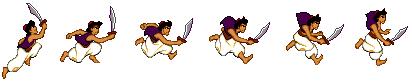
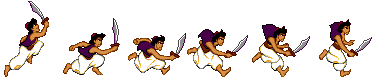
Fixed states and Aladdin's animation spritesheets

diff --git a/Game/Game/PlayerStandingState.cpp b/Game/Game/PlayerStandingState.cpp
@@ -2,6 +2,7 @@
 #include "PlayerStandingState.h"
 
 #define IDLE_TIME 1500
+constexpr auto idle_sprite_offset = 3;
 
 PlayerStandingState::PlayerStandingState(Player* player, Animation* animation)
 {
@@ -12,6 +13,8 @@ PlayerStandingState::PlayerStandingState(Player* player, Animation* animation)
 	m_animation->setPositionY(m_player->getPosition().y);
 
 	m_animationStandLookAround = DBG_NEW Animation(L"Resources/animations/aladdin/stand-look-around.png", 7, 1, 7, true, 150.f);
+	m_animationStandLookAround->setPositionX(m_player->getPosition().x);
+	m_animationStandLookAround->setPositionY(m_player->getPosition().y - idle_sprite_offset);
 
 	if (m_player->m_isFacingRight == false)
 	{
@@ -35,15 +38,20 @@ void PlayerStandingState::Update(float deltaTime)
 {
 	if (m_idleTime >= IDLE_TIME)
 	{
-		m_animationStandLookAround->Reset();
-		m_animation = m_animationStandLookAround;
-		if (m_player->m_isFacingRight == false)
+		if (m_isIdling01 == false)
 		{
-			m_animation->setFlipHorizontal(true);
+			m_animationStandLookAround->Reset();
+			m_animation = m_animationStandLookAround;
+			if (m_player->m_isFacingRight == false)
+			{
+				m_animation->setFlipHorizontal(true);
+			}
+			else {
+				m_animation->setFlipHorizontal(false);
+			}
+			m_isIdling01 = true;
 		}
-		else {
-			m_animation->setFlipHorizontal(false);
-		}
+		
 		m_idleTime = 0;
 	}
 	else 
@@ -51,9 +59,18 @@ void PlayerStandingState::Update(float deltaTime)
 		m_idleTime += deltaTime;
 	}
 
-	m_animation->setPositionX(m_player->getPosition().x);
-	m_animation->setPositionY(m_player->getPosition().y);
-	m_animation->Update(deltaTime);
+	if (m_isIdling01 == true) // Idle 01's animation is a bit lower than the default stand. Render it a bit up.
+	{
+		m_animation->setPositionX(m_player->getPosition().x);
+		m_animation->setPositionY(m_player->getPosition().y - idle_sprite_offset);
+		m_animation->Update(deltaTime);
+	}
+	else // Default stand
+	{
+		m_animation->setPositionX(m_player->getPosition().x);
+		m_animation->setPositionY(m_player->getPosition().y);
+		m_animation->Update(deltaTime);
+	}
 
 	// Prevent moving when pressing both A and D keys.
 	if (KeyboardInput::GetInstance()->isKeyDown(VK_A) && KeyboardInput::GetInstance()->isKeyDown(VK_D))

diff --git a/Game/Game/PlayerStandAttackState.cpp b/Game/Game/PlayerStandAttackState.cpp
@@ -1,13 +1,15 @@
 #include "stdafx.h"
 #include "PlayerStandAttackState.h"
 
+constexpr auto sprite_offset = 12;
+
 PlayerStandAttackState::PlayerStandAttackState(Player* player, Animation* animation)
 {
 	m_player = player;
 	m_animation = animation;
 	m_animation->Reset();
 	m_animation->setPositionX(m_player->getPosition().x);
-	m_animation->setPositionY(m_player->getPosition().y);
+	m_animation->setPositionY(m_player->getPosition().y - sprite_offset);
 	if (m_player->m_isFacingRight == true)
 	{
 		m_animation->setFlipHorizontal(false);
@@ -33,11 +35,15 @@ void PlayerStandAttackState::Update(float deltaTime)
 	}
 
 	m_animation->setPositionX(m_player->getPosition().x);
-	m_animation->setPositionY(m_player->getPosition().y);
+	m_animation->setPositionY(m_player->getPosition().y - sprite_offset);
 	m_animation->Update(deltaTime);
 
 	if (m_animation->getIsFinished() == true) 
 	{
+		if (KeyboardInput::GetInstance()->isKeyDown(VK_A) || KeyboardInput::GetInstance()->isKeyDown(VK_D)) {
+			m_player->changeState(PlayerStates::Moving);
+			return;
+		}
 		m_player->changeState(PlayerStates::Standing);
 		return;
 	}

diff --git a/Game/Game/PlayerSitDownAttack.cpp b/Game/Game/PlayerSitDownAttack.cpp
@@ -1,13 +1,15 @@
 #include "stdafx.h"
 #include "PlayerSitDownAttack.h"
 
+constexpr auto sprite_offset = 7;
+
 PlayerSitDownAttack::PlayerSitDownAttack(Player* player, Animation* animation)
 {
 	m_player = player;
 	m_animation = animation;
 	m_animation->Reset();
 	m_animation->setPositionX(m_player->getPosition().x);
-	m_animation->setPositionY(m_player->getPosition().y);
+	m_animation->setPositionY(m_player->getPosition().y + sprite_offset);
 
 	if (m_player->m_isFacingRight == false)
 	{
@@ -33,7 +35,7 @@ void PlayerSitDownAttack::Update(float deltaTime)
 	}
 
 	m_animation->setPositionX(m_player->getPosition().x);
-	m_animation->setPositionY(m_player->getPosition().y);
+	m_animation->setPositionY(m_player->getPosition().y + sprite_offset);
 	m_animation->Update(deltaTime);
 
 	if (m_animation->getIsFinished() == true)

diff --git a/Game/Game/Global.h b/Game/Game/Global.h
@@ -19,8 +19,8 @@ public:
 	HINSTANCE			g_hInstance = NULL;			//hInstance of the game
 	HWND				g_HWND;				//HWND of the game
 	bool				g_IsWindowed = true;		//true if windowed
-	int					g_ScreenWidth = 640;
-	int					g_ScreenHeight = 640;
+	int					g_ScreenWidth = 400; //640/2;
+	int					g_ScreenHeight = 640/2;
 	LPDIRECT3DDEVICE9	g_DirectDevice = NULL;		//Direct X device
 	LPD3DXSPRITE		g_SpriteHandler = NULL;		//Direct X Sprite handler
 	LPDIRECT3DSURFACE9	g_BackBuffer = NULL;		//Back buffer

diff --git a/Game/Game/Player.cpp b/Game/Game/Player.cpp
@@ -81,7 +81,7 @@ Player::Player(float x, float y, float width, float height, LPCWSTR spritePath)
 	m_animationJumpStand->setPositionY(y);
 
 	//Sit Down Attack
-	m_animationSitDownAttack = new Animation(L"Resources/animations/aladdin/sit-down-attack.png", 7, 1, 7, false, 100.f);
+	m_animationSitDownAttack = new Animation(L"Resources/animations/aladdin/sit-down-attack.png", 7, 1, 7, false, 50.f);
 	m_animationSitDownAttack->setPositionX(x);
 	m_animationSitDownAttack->setPositionY(y);
 

diff --git a/Game/Game/PlayScene.cpp b/Game/Game/PlayScene.cpp
@@ -85,7 +85,7 @@ void PlayScene::loadResources()
 		PLAYER_TEXTURE_PATH
 	);
 	Camera::getInstance();
-	D3DXVECTOR2 position(Global::GetInstance()->g_ScreenWidth / 2, (Global::GetInstance()->g_ScreenHeight / 2) - 250);
+	D3DXVECTOR2 position(Global::GetInstance()->g_ScreenWidth / 2, (Global::GetInstance()->g_ScreenHeight / 2) - 0);
 	Camera::getInstance()->setPosition(position);
 	m_listCanCollideWithPlayer = new std::map<int, GameObject*>();
 

diff --git a/Game/Game/PlayerStandingState.h b/Game/Game/PlayerStandingState.h
@@ -13,6 +13,8 @@ private:
 
 	float m_idleTime = 0.0f;
 
+	bool m_isIdling01 = false;
+
 public:
 	PlayerStandingState(Player* player, Animation* animation);
 	~PlayerStandingState();
